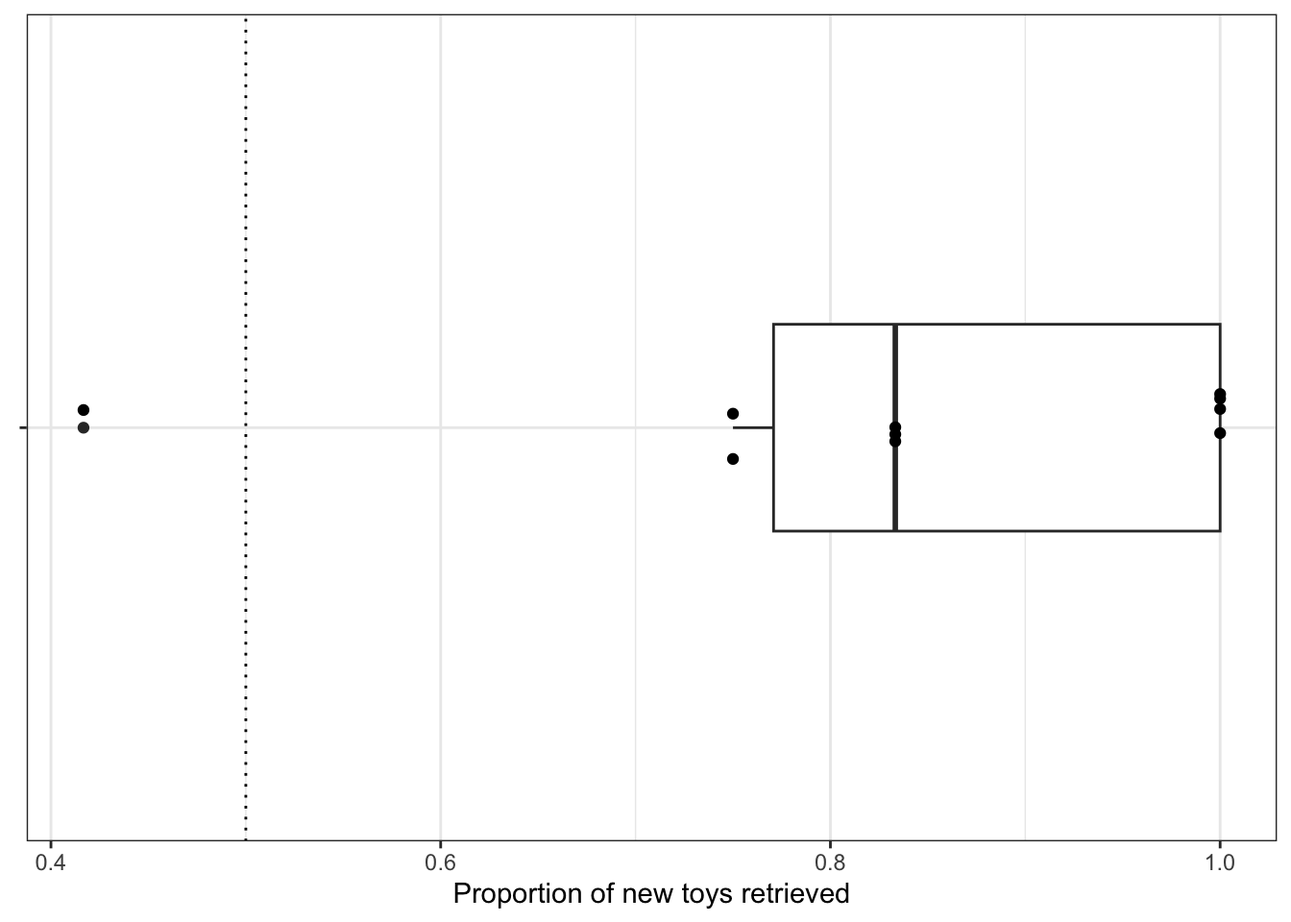
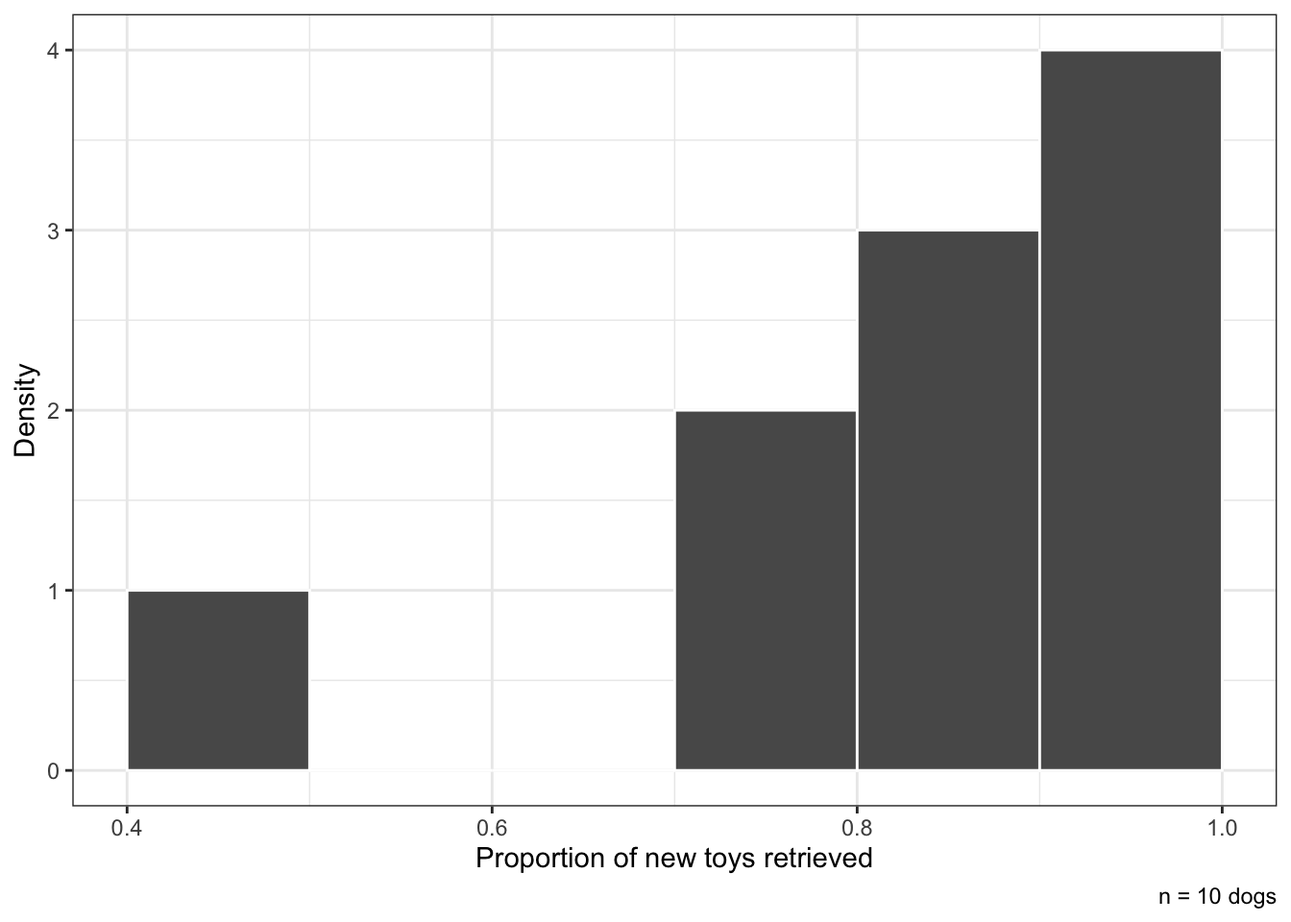
Solutions to 2.1 and 2.2

diff --git a/docs/HW1/HW1.html b/docs/HW1/HW1.html
@@ -235,13 +235,18 @@ pre > code.sourceCode > span > a:first-child::before { text-decoration: underlin
     <h2 id="toc-title">On this page</h2>
    
   <ul>
-  <li><a href="#question-1" id="toc-question-1" class="nav-link active" data-scroll-target="#question-1">Question 1</a>
+  <li><a href="#question-1" id="toc-question-1" class="nav-link active" data-scroll-target="#question-1"><span class="header-section-number">1</span> Question 1</a>
   <ul class="collapse">
-  <li><a href="#part-a" id="toc-part-a" class="nav-link" data-scroll-target="#part-a">Part a</a></li>
-  <li><a href="#part-b" id="toc-part-b" class="nav-link" data-scroll-target="#part-b">Part b</a></li>
+  <li><a href="#part-a" id="toc-part-a" class="nav-link" data-scroll-target="#part-a"><span class="header-section-number">1.1</span> Part a</a></li>
+  <li><a href="#part-b" id="toc-part-b" class="nav-link" data-scroll-target="#part-b"><span class="header-section-number">1.2</span> Part b</a></li>
+  </ul></li>
+  <li><a href="#question-2" id="toc-question-2" class="nav-link" data-scroll-target="#question-2"><span class="header-section-number">2</span> Question 2</a>
+  <ul class="collapse">
+  <li><a href="#part-a-1" id="toc-part-a-1" class="nav-link" data-scroll-target="#part-a-1"><span class="header-section-number">2.1</span> Part a</a></li>
+  <li><a href="#part-b-1" id="toc-part-b-1" class="nav-link" data-scroll-target="#part-b-1"><span class="header-section-number">2.2</span> Part b</a></li>
   </ul></li>
   </ul>
-</nav>
+<div class="quarto-alternate-formats"><h2>Other Formats</h2><ul><li><a href="HW1.pdf"><i class="bi bi-file-pdf"></i>PDF</a></li></ul></div></nav>
     </div>
 <!-- main -->
 <main class="content" id="quarto-document-content">
@@ -271,10 +276,10 @@ pre > code.sourceCode > span > a:first-child::before { text-decoration: underlin
 <p>To learn whether GWL dogs learn object labels by passively overhearing interactions between humans the researchers performed an experiment where 𝑛 = 10 dogs were exposed to a condition where two family members sitting across from each other passing the toy back and forth. The caretaker addressed the second person using simple sentence frames and non-verbal cues, neither directly to the dog.</p>
 <p>This exposure occurred daily for eleven days with two new toys. - Toy A: Days 1-3; 9 - Toy B: Days 5-7; 10 - Rest: Day 4, 8, 11</p>
 <p>On the twelfth day, out of the caretaker’s sight, the two new toys were placed alongside nine familiar toys. The caretaker requested the toys verbally twenty-four times – twelve times for the two new toys, and twelve times for the nine familiar toys.</p>
-<section id="question-1" class="level1">
-<h1>Question 1</h1>
-<section id="part-a" class="level2">
-<h2 class="anchored" data-anchor-id="part-a">Part a</h2>
+<section id="question-1" class="level1" data-number="1">
+<h1 data-number="1"><span class="header-section-number">1</span> Question 1</h1>
+<section id="part-a" class="level2" data-number="1.1">
+<h2 data-number="1.1" class="anchored" data-anchor-id="part-a"><span class="header-section-number">1.1</span> Part a</h2>
 <p>In the paper, Dror et al.&nbsp;(2026) performed a Wilcoxon signed-rank test to assess whether the dogs were better than chance, which they took as 50%, for returning the new objects when requested. The 𝑛 = 10 dogs had the following results:</p>
 <p>{1.0000, 1.0000, 0.7500, 1.0000, 0.4167, 0.8333, 0.7500, 0.8333, 0.8333, 1.0000}.</p>
 <p>They also considered the paired difference (direct − overhearing):</p>
@@ -284,25 +289,27 @@ pre > code.sourceCode > span > a:first-child::before { text-decoration: underlin
 <p>Evaluate the author’s choice to use the Wilcoxon signed-rank test (not specifying exact or approximate). Also consider a one-sample 𝑡-test and a one-sample 𝑧-test (or exact binomial test). Which choices are reasonable given the data, and which choice would you have made?</p>
 <p><strong>Solution:</strong> AI recommended that if the data met normality assumptions, to then report a one-sample t-Test, however, because there are only n=10 dogs, we cannot enact the central limit theorem (CLT) to make the data behave as normal. So, in a case where the data is bound between 0 and 1 with a limited sample size, the t-Test might not be the most accurate. Moving on with the z-Test, it seems the natural choice because it deals with proportions and relies on bernoulli data. Again, while we could coerce the trails into success(1) and failure(0) for each trial a dog participates in, we have the same subject gathering data for 12 trials. This could skew the data as if one dog were inherently very good, it would be difficult to compare to another who wasn’t as they are not independent trials. That leaves only the Wilcoxon signed-rank test. But the authors’ failure to specify exact vs.&nbsp;approximate matters more than it looks. The exact version of the test requires no ties among the ranked values, and here 7 of the 10 values are tied (three dogs at 1.0000, two at 0.8333, two at 0.7500). However, I still agree with the author’s use of the Wilcoxon signed-rank test as the best option.</p>
 </section>
-<section id="part-b" class="level2">
-<h2 class="anchored" data-anchor-id="part-b">Part b</h2>
+<section id="part-b" class="level2" data-number="1.2">
+<h2 data-number="1.2" class="anchored" data-anchor-id="part-b"><span class="header-section-number">1.2</span> Part b</h2>
 <p>Perform the analyses you decided on above. Provide a full report as if you were submitting your homework to the researchers themselves. This part should be a stand alone analysis that can be read and understood independently.</p>
 <p>Note: If you didn’t select a test in the previous part, you can use a randomization test here.</p>
 <div class="cell">
-<div class="code-copy-outer-scaffold"><div class="sourceCode cell-code" id="cb1"><pre class="sourceCode r code-with-copy"><code class="sourceCode r"><span id="cb1-1"><a href="#cb1-1" aria-hidden="true" tabindex="-1"></a><span class="fu">library</span>(ggplot2)</span>
-<span id="cb1-2"><a href="#cb1-2" aria-hidden="true" tabindex="-1"></a></span>
-<span id="cb1-3"><a href="#cb1-3" aria-hidden="true" tabindex="-1"></a>new.toy.prop <span class="ot">&lt;-</span> <span class="fu">c</span>(<span class="fl">1.0000</span>, <span class="fl">1.0000</span>, <span class="fl">0.7500</span>, <span class="fl">1.0000</span>, <span class="fl">0.4167</span>,</span>
-<span id="cb1-4"><a href="#cb1-4" aria-hidden="true" tabindex="-1"></a>                   <span class="fl">0.8333</span>, <span class="fl">0.7500</span>, <span class="fl">0.8333</span>, <span class="fl">0.8333</span>, <span class="fl">1.0000</span>)</span>
-<span id="cb1-5"><a href="#cb1-5" aria-hidden="true" tabindex="-1"></a></span>
-<span id="cb1-6"><a href="#cb1-6" aria-hidden="true" tabindex="-1"></a>dog.dat <span class="ot">&lt;-</span> <span class="fu">data.frame</span>(<span class="at">dog =</span> <span class="fu">factor</span>(<span class="dv">1</span><span class="sc">:</span><span class="dv">10</span>), <span class="at">prop.correct =</span> new.toy.prop)</span>
-<span id="cb1-7"><a href="#cb1-7" aria-hidden="true" tabindex="-1"></a></span>
-<span id="cb1-8"><a href="#cb1-8" aria-hidden="true" tabindex="-1"></a><span class="fu">ggplot</span>(dog.dat, <span class="fu">aes</span>(<span class="at">x =</span> <span class="st">""</span>, <span class="at">y =</span> prop.correct)) <span class="sc">+</span></span>
-<span id="cb1-9"><a href="#cb1-9" aria-hidden="true" tabindex="-1"></a>  <span class="fu">geom_boxplot</span>(<span class="at">width =</span> <span class="fl">0.3</span>) <span class="sc">+</span></span>
-<span id="cb1-10"><a href="#cb1-10" aria-hidden="true" tabindex="-1"></a>  <span class="fu">geom_jitter</span>(<span class="at">width =</span> <span class="fl">0.05</span>, <span class="at">height =</span> <span class="dv">0</span>) <span class="sc">+</span></span>
-<span id="cb1-11"><a href="#cb1-11" aria-hidden="true" tabindex="-1"></a>  <span class="fu">geom_hline</span>(<span class="at">yintercept =</span> <span class="fl">0.5</span>, <span class="at">linetype =</span> <span class="st">"dotted"</span>) <span class="sc">+</span></span>
-<span id="cb1-12"><a href="#cb1-12" aria-hidden="true" tabindex="-1"></a>  <span class="fu">coord_flip</span>() <span class="sc">+</span></span>
-<span id="cb1-13"><a href="#cb1-13" aria-hidden="true" tabindex="-1"></a>  <span class="fu">labs</span>(<span class="at">x =</span> <span class="cn">NULL</span>, <span class="at">y =</span> <span class="st">"Proportion of new toys retrieved"</span>) <span class="sc">+</span></span>
-<span id="cb1-14"><a href="#cb1-14" aria-hidden="true" tabindex="-1"></a>  <span class="fu">theme_bw</span>()</span></code></pre></div><button title="Copy to Clipboard" class="code-copy-button"><i class="bi"></i></button></div>
+<details class="code-fold">
+<summary>Code</summary>
+<div class="code-copy-outer-scaffold"><div class="sourceCode cell-code" id="cb1"><pre class="sourceCode numberSource r number-lines code-with-copy"><code class="sourceCode r"><span id="cb1-1"><a href="#cb1-1" aria-label="1"></a><span class="fu">library</span>(ggplot2)</span>
+<span id="cb1-2"><a href="#cb1-2" aria-label="2"></a></span>
+<span id="cb1-3"><a href="#cb1-3" aria-label="3"></a>new.toy.prop <span class="ot">&lt;-</span> <span class="fu">c</span>(<span class="fl">1.0000</span>, <span class="fl">1.0000</span>, <span class="fl">0.7500</span>, <span class="fl">1.0000</span>, <span class="fl">0.4167</span>,</span>
+<span id="cb1-4"><a href="#cb1-4" aria-label="4"></a>                   <span class="fl">0.8333</span>, <span class="fl">0.7500</span>, <span class="fl">0.8333</span>, <span class="fl">0.8333</span>, <span class="fl">1.0000</span>)</span>
+<span id="cb1-5"><a href="#cb1-5" aria-label="5"></a></span>
+<span id="cb1-6"><a href="#cb1-6" aria-label="6"></a>dog.dat <span class="ot">&lt;-</span> <span class="fu">data.frame</span>(<span class="at">prop.correct =</span> new.toy.prop)</span>
+<span id="cb1-7"><a href="#cb1-7" aria-label="7"></a></span>
+<span id="cb1-8"><a href="#cb1-8" aria-label="8"></a><span class="fu">ggplot</span>(dog.dat, <span class="fu">aes</span>(<span class="at">x =</span> prop.correct)) <span class="sc">+</span></span>
+<span id="cb1-9"><a href="#cb1-9" aria-label="9"></a>  <span class="fu">geom_histogram</span>(<span class="fu">aes</span>(<span class="at">y =</span> <span class="fu">after_stat</span>(density)),</span>
+<span id="cb1-10"><a href="#cb1-10" aria-label="10"></a>                  <span class="at">binwidth =</span> <span class="fl">0.1</span>, <span class="at">boundary =</span> <span class="dv">0</span>, <span class="at">color =</span> <span class="st">"white"</span>) <span class="sc">+</span></span>
+<span id="cb1-11"><a href="#cb1-11" aria-label="11"></a>  <span class="fu">labs</span>(<span class="at">x =</span> <span class="st">"Proportion of new toys retrieved"</span>, <span class="at">y =</span> <span class="st">"Density"</span>,</span>
+<span id="cb1-12"><a href="#cb1-12" aria-label="12"></a>       <span class="at">caption =</span> <span class="st">"n = 10 dogs"</span>) <span class="sc">+</span></span>
+<span id="cb1-13"><a href="#cb1-13" aria-label="13"></a>  <span class="fu">theme_bw</span>()</span></code></pre></div><button title="Copy to Clipboard" class="code-copy-button"><i class="bi"></i></button></div>
+</details>
 <div class="cell-output-display">
 <div>
 <figure class="figure">
@@ -312,17 +319,21 @@ pre > code.sourceCode > span > a:first-child::before { text-decoration: underlin
 </div>
 </div>
 <div class="cell">
-<div class="code-copy-outer-scaffold"><div class="sourceCode cell-code" id="cb2"><pre class="sourceCode r code-with-copy"><code class="sourceCode r"><span id="cb2-1"><a href="#cb2-1" aria-hidden="true" tabindex="-1"></a>new.toy.prop <span class="ot">&lt;-</span> <span class="fu">c</span>(<span class="fl">1.0000</span>, <span class="fl">1.0000</span>, <span class="fl">0.7500</span>, <span class="fl">1.0000</span>, <span class="fl">0.4167</span>,</span>
-<span id="cb2-2"><a href="#cb2-2" aria-hidden="true" tabindex="-1"></a>                   <span class="fl">0.8333</span>, <span class="fl">0.7500</span>, <span class="fl">0.8333</span>, <span class="fl">0.8333</span>, <span class="fl">1.0000</span>)</span>
-<span id="cb2-3"><a href="#cb2-3" aria-hidden="true" tabindex="-1"></a>test.result <span class="ot">&lt;-</span> <span class="fu">wilcox.test</span>(<span class="at">x =</span> new.toy.prop, <span class="co"># data</span></span>
-<span id="cb2-4"><a href="#cb2-4" aria-hidden="true" tabindex="-1"></a><span class="at">mu =</span> <span class="fl">0.5</span>, <span class="co"># M0 = .5</span></span>
-<span id="cb2-5"><a href="#cb2-5" aria-hidden="true" tabindex="-1"></a><span class="at">alternative =</span> <span class="st">"two.sided"</span>, <span class="co"># Ha: M != M0</span></span>
-<span id="cb2-6"><a href="#cb2-6" aria-hidden="true" tabindex="-1"></a><span class="at">conf.level =</span> <span class="fl">0.95</span>) <span class="co"># alpha = 0.05</span></span></code></pre></div><button title="Copy to Clipboard" class="code-copy-button"><i class="bi"></i></button></div>
+<details class="code-fold">
+<summary>Code</summary>
+<div class="code-copy-outer-scaffold"><div class="sourceCode cell-code" id="cb2"><pre class="sourceCode numberSource r number-lines code-with-copy"><code class="sourceCode r"><span id="cb2-1"><a href="#cb2-1" aria-label="1"></a>test.result <span class="ot">&lt;-</span> <span class="fu">wilcox.test</span>(<span class="at">x =</span> new.toy.prop, <span class="co"># data</span></span>
+<span id="cb2-2"><a href="#cb2-2" aria-label="2"></a><span class="at">mu =</span> <span class="fl">0.5</span>, <span class="co"># M0 = .5</span></span>
+<span id="cb2-3"><a href="#cb2-3" aria-label="3"></a><span class="at">alternative =</span> <span class="st">"two.sided"</span>, <span class="co"># Ha: M != M0</span></span>
+<span id="cb2-4"><a href="#cb2-4" aria-label="4"></a><span class="at">conf.level =</span> <span class="fl">0.95</span>) <span class="co"># alpha = 0.05</span></span></code></pre></div><button title="Copy to Clipboard" class="code-copy-button"><i class="bi"></i></button></div>
+</details>
 <div class="cell-output cell-output-stderr">
 <pre><code>Warning in wilcox.test.default(x = new.toy.prop, mu = 0.5, alternative =
 "two.sided", : cannot compute exact p-value with ties</code></pre>
 </div>
-<div class="code-copy-outer-scaffold"><div class="sourceCode cell-code" id="cb4"><pre class="sourceCode r code-with-copy"><code class="sourceCode r"><span id="cb4-1"><a href="#cb4-1" aria-hidden="true" tabindex="-1"></a>test.result</span></code></pre></div><button title="Copy to Clipboard" class="code-copy-button"><i class="bi"></i></button></div>
+<details class="code-fold">
+<summary>Code</summary>
+<div class="code-copy-outer-scaffold"><div class="sourceCode cell-code" id="cb4"><pre class="sourceCode numberSource r number-lines code-with-copy"><code class="sourceCode r"><span id="cb4-1"><a href="#cb4-1" aria-label="1"></a>test.result</span></code></pre></div><button title="Copy to Clipboard" class="code-copy-button"><i class="bi"></i></button></div>
+</details>
 <div class="cell-output cell-output-stdout">
 <pre><code>
     Wilcoxon signed rank test with continuity correction
@@ -334,7 +345,10 @@ alternative hypothesis: true location is not equal to 0.5</code></pre>
 </div>
 <p><strong>Question:</strong> Did the dogs retrieve newly-labeled toys at a rate better than chance (50%) after only overhearing them named, across n = 10 dogs?</p>
 <div class="cell">
-<div class="code-copy-outer-scaffold"><div class="sourceCode cell-code" id="cb6"><pre class="sourceCode r code-with-copy"><code class="sourceCode r"><span id="cb6-1"><a href="#cb6-1" aria-hidden="true" tabindex="-1"></a><span class="fu">library</span>(dplyr)</span></code></pre></div><button title="Copy to Clipboard" class="code-copy-button"><i class="bi"></i></button></div>
+<details class="code-fold">
+<summary>Code</summary>
+<div class="code-copy-outer-scaffold"><div class="sourceCode cell-code" id="cb6"><pre class="sourceCode numberSource r number-lines code-with-copy"><code class="sourceCode r"><span id="cb6-1"><a href="#cb6-1" aria-label="1"></a><span class="fu">library</span>(dplyr)</span></code></pre></div><button title="Copy to Clipboard" class="code-copy-button"><i class="bi"></i></button></div>
+</details>
 <div class="cell-output cell-output-stderr">
 <pre><code>
 Attaching package: 'dplyr'</code></pre>
@@ -349,7 +363,10 @@ Attaching package: 'dplyr'</code></pre>
 
     intersect, setdiff, setequal, union</code></pre>
 </div>
-<div class="code-copy-outer-scaffold"><div class="sourceCode cell-code" id="cb10"><pre class="sourceCode r code-with-copy"><code class="sourceCode r"><span id="cb10-1"><a href="#cb10-1" aria-hidden="true" tabindex="-1"></a><span class="fu">library</span>(e1071)</span></code></pre></div><button title="Copy to Clipboard" class="code-copy-button"><i class="bi"></i></button></div>
+<details class="code-fold">
+<summary>Code</summary>
+<div class="code-copy-outer-scaffold"><div class="sourceCode cell-code" id="cb10"><pre class="sourceCode numberSource r number-lines code-with-copy"><code class="sourceCode r"><span id="cb10-1"><a href="#cb10-1" aria-label="1"></a><span class="fu">library</span>(e1071)</span></code></pre></div><button title="Copy to Clipboard" class="code-copy-button"><i class="bi"></i></button></div>
+</details>
 <div class="cell-output cell-output-stderr">
 <pre><code>
 Attaching package: 'e1071'</code></pre>
@@ -359,23 +376,26 @@ Attaching package: 'e1071'</code></pre>
 
     element</code></pre>
 </div>
-<div class="code-copy-outer-scaffold"><div class="sourceCode cell-code" id="cb13"><pre class="sourceCode r code-with-copy"><code class="sourceCode r"><span id="cb13-1"><a href="#cb13-1" aria-hidden="true" tabindex="-1"></a><span class="fu">library</span>(knitr)</span>
-<span id="cb13-2"><a href="#cb13-2" aria-hidden="true" tabindex="-1"></a></span>
-<span id="cb13-3"><a href="#cb13-3" aria-hidden="true" tabindex="-1"></a>new.toy.prop <span class="ot">&lt;-</span> <span class="fu">c</span>(<span class="fl">1.0000</span>, <span class="fl">1.0000</span>, <span class="fl">0.7500</span>, <span class="fl">1.0000</span>, <span class="fl">0.4167</span>,</span>
-<span id="cb13-4"><a href="#cb13-4" aria-hidden="true" tabindex="-1"></a>                   <span class="fl">0.8333</span>, <span class="fl">0.7500</span>, <span class="fl">0.8333</span>, <span class="fl">0.8333</span>, <span class="fl">1.0000</span>)</span>
-<span id="cb13-5"><a href="#cb13-5" aria-hidden="true" tabindex="-1"></a></span>
-<span id="cb13-6"><a href="#cb13-6" aria-hidden="true" tabindex="-1"></a>summary.tab <span class="ot">&lt;-</span> <span class="fu">tibble</span>(<span class="at">prop =</span> new.toy.prop) <span class="sc">|&gt;</span></span>
-<span id="cb13-7"><a href="#cb13-7" aria-hidden="true" tabindex="-1"></a>  <span class="fu">summarise</span>(</span>
-<span id="cb13-8"><a href="#cb13-8" aria-hidden="true" tabindex="-1"></a>    <span class="at">n                =</span> <span class="fu">n</span>(),</span>
-<span id="cb13-9"><a href="#cb13-9" aria-hidden="true" tabindex="-1"></a>    <span class="at">Mean             =</span> <span class="fu">mean</span>(prop),</span>
-<span id="cb13-10"><a href="#cb13-10" aria-hidden="true" tabindex="-1"></a>    <span class="at">Median           =</span> <span class="fu">median</span>(prop),</span>
-<span id="cb13-11"><a href="#cb13-11" aria-hidden="true" tabindex="-1"></a>    <span class="at">SD               =</span> <span class="fu">sd</span>(prop),</span>
-<span id="cb13-12"><a href="#cb13-12" aria-hidden="true" tabindex="-1"></a>    <span class="at">IQR              =</span> <span class="fu">IQR</span>(prop),</span>
-<span id="cb13-13"><a href="#cb13-13" aria-hidden="true" tabindex="-1"></a>    <span class="at">Skewness         =</span> <span class="fu">skewness</span>(prop),</span>
-<span id="cb13-14"><a href="#cb13-14" aria-hidden="true" tabindex="-1"></a>    <span class="st">`</span><span class="at">Excess Kurtosis</span><span class="st">`</span> <span class="ot">=</span> <span class="fu">kurtosis</span>(prop)</span>
-<span id="cb13-15"><a href="#cb13-15" aria-hidden="true" tabindex="-1"></a>  )</span>
-<span id="cb13-16"><a href="#cb13-16" aria-hidden="true" tabindex="-1"></a></span>
-<span id="cb13-17"><a href="#cb13-17" aria-hidden="true" tabindex="-1"></a><span class="fu">kable</span>(summary.tab, <span class="at">digits =</span> <span class="dv">2</span>, <span class="at">caption =</span> <span class="st">"Proportion of New Toys Retrieved (n = 10 dogs)"</span>)</span></code></pre></div><button title="Copy to Clipboard" class="code-copy-button"><i class="bi"></i></button></div>
+<details class="code-fold">
+<summary>Code</summary>
+<div class="code-copy-outer-scaffold"><div class="sourceCode cell-code" id="cb13"><pre class="sourceCode numberSource r number-lines code-with-copy"><code class="sourceCode r"><span id="cb13-1"><a href="#cb13-1" aria-label="1"></a><span class="fu">library</span>(knitr)</span>
+<span id="cb13-2"><a href="#cb13-2" aria-label="2"></a></span>
+<span id="cb13-3"><a href="#cb13-3" aria-label="3"></a>new.toy.prop <span class="ot">&lt;-</span> <span class="fu">c</span>(<span class="fl">1.0000</span>, <span class="fl">1.0000</span>, <span class="fl">0.7500</span>, <span class="fl">1.0000</span>, <span class="fl">0.4167</span>,</span>
+<span id="cb13-4"><a href="#cb13-4" aria-label="4"></a>                   <span class="fl">0.8333</span>, <span class="fl">0.7500</span>, <span class="fl">0.8333</span>, <span class="fl">0.8333</span>, <span class="fl">1.0000</span>)</span>
+<span id="cb13-5"><a href="#cb13-5" aria-label="5"></a></span>
+<span id="cb13-6"><a href="#cb13-6" aria-label="6"></a>summary.tab <span class="ot">&lt;-</span> <span class="fu">tibble</span>(<span class="at">prop =</span> new.toy.prop) <span class="sc">|&gt;</span></span>
+<span id="cb13-7"><a href="#cb13-7" aria-label="7"></a>  <span class="fu">summarise</span>(</span>
+<span id="cb13-8"><a href="#cb13-8" aria-label="8"></a>    <span class="at">n                =</span> <span class="fu">n</span>(),</span>
+<span id="cb13-9"><a href="#cb13-9" aria-label="9"></a>    <span class="at">Mean             =</span> <span class="fu">mean</span>(prop),</span>
+<span id="cb13-10"><a href="#cb13-10" aria-label="10"></a>    <span class="at">Median           =</span> <span class="fu">median</span>(prop),</span>
+<span id="cb13-11"><a href="#cb13-11" aria-label="11"></a>    <span class="at">SD               =</span> <span class="fu">sd</span>(prop),</span>
+<span id="cb13-12"><a href="#cb13-12" aria-label="12"></a>    <span class="at">IQR              =</span> <span class="fu">IQR</span>(prop),</span>
+<span id="cb13-13"><a href="#cb13-13" aria-label="13"></a>    <span class="at">Skewness         =</span> <span class="fu">skewness</span>(prop),</span>
+<span id="cb13-14"><a href="#cb13-14" aria-label="14"></a>    <span class="st">`</span><span class="at">Excess Kurtosis</span><span class="st">`</span> <span class="ot">=</span> <span class="fu">kurtosis</span>(prop)</span>
+<span id="cb13-15"><a href="#cb13-15" aria-label="15"></a>  )</span>
+<span id="cb13-16"><a href="#cb13-16" aria-label="16"></a></span>
+<span id="cb13-17"><a href="#cb13-17" aria-label="17"></a><span class="fu">kable</span>(summary.tab, <span class="at">digits =</span> <span class="dv">2</span>, <span class="at">caption =</span> <span class="st">"Proportion of New Toys Retrieved (n = 10 dogs)"</span>)</span></code></pre></div><button title="Copy to Clipboard" class="code-copy-button"><i class="bi"></i></button></div>
+</details>
 <div class="cell-output-display">
 <table class="caption-top table table-sm table-striped small">
 <caption>Proportion of New Toys Retrieved (n = 10 dogs)</caption>
@@ -404,8 +424,32 @@ Attaching package: 'e1071'</code></pre>
 </table>
 </div>
 </div>
-<p>We used a Wilcoxon signed-rank test (H₀: median proportion = 0.5) as the primary test. Because 7 of the 10 values are tied (three dogs at 1.000, two at 0.833, two at 0.750), an exact p-value isn’t computable.</p>
+<p>We used a Wilcoxon signed-rank test (Null = 0.5) as the primary test. Because 7 of the 10 values are tied (three dogs at 1.000, two at 0.833, two at 0.750), an exact p-value isn’t computable.</p>
 <p><strong>Conclusion:</strong> The dogs retrieved newly-labeled toys significantly more often than the 50% chance level after passively overhearing them named (Wilcoxon V = 54, p = .0074; sign test p = .0215, 9/10 dogs above chance), consistent with the researchers’ claim of passive label learning in this sample. Given n = 10, we’d caution against over-interpreting the exact p-values — the ceiling effect (4/10 dogs at a perfect score) suggests the task may not have had enough range to fully capture variation in performance, and a slightly harder retrieval task in a larger sample would strengthen the estimate.</p>
+</section>
+</section>
+<section id="question-2" class="level1" data-number="2">
+<h1 data-number="2"><span class="header-section-number">2</span> Question 2</h1>
+<p>The researchers evaluated two new-toy trials per dog across 𝑛 = 10 dogs In the overheard condition, the dogs retrieved all the new toys correctly on the first try. That is, the proportion of times the dogs retrieved the new toys they had only learned through overhearing was 1.0.</p>
+<section id="part-a-1" class="level2" data-number="2.1">
+<h2 data-number="2.1" class="anchored" data-anchor-id="part-a-1"><span class="header-section-number">2.1</span> Part a</h2>
+<p>The researchers suppose that the chance a dog would select the new toy by chance is 50%, noting the novelty of the new toy. The authors use the binomial distribution here. Consider the conditions of the binomial and note any potential issues.</p>
+<p><strong>Solution</strong> One condition of the binomial distribution is an outcome that is either a success of failure. This is fine as the dog either retrieves the toy or not. Another condition of the binomial is a constant p (assumed 0.5). This does not actually hold but given their assumption this is okay. One final condition of the Binomial distribution is independence. Because a single dog will do the trial multiple times and the data is collected, there is not independence between these trials and if one dog is inherently good it may skew the data.</p>
+</section>
+<section id="part-b-1" class="level2" data-number="2.2">
+<h2 data-number="2.2" class="anchored" data-anchor-id="part-b-1"><span class="header-section-number">2.2</span> Part b</h2>
+<p>Using the same assumption – that a dog would select the new toy by chance is 50% – use the binomial model to evaluate the probability that all 𝑛 = 10 dogs would get both trials correct.</p>
+<div class="cell">
+<details class="code-fold">
+<summary>Code</summary>
+<div class="code-copy-outer-scaffold"><div class="sourceCode cell-code" id="cb14"><pre class="sourceCode numberSource r number-lines code-with-copy"><code class="sourceCode r"><span id="cb14-1"><a href="#cb14-1" aria-label="1"></a>aprob <span class="ot">=</span> <span class="fu">dbinom</span>(<span class="dv">10</span>, <span class="at">size =</span> <span class="dv">10</span>, <span class="at">prob =</span> <span class="fl">0.25</span>)</span>
+<span id="cb14-2"><a href="#cb14-2" aria-label="2"></a>aprob</span></code></pre></div><button title="Copy to Clipboard" class="code-copy-button"><i class="bi"></i></button></div>
+</details>
+<div class="cell-output cell-output-stdout">
+<pre><code>[1] 9.536743e-07</code></pre>
+</div>
+</div>
+<p><strong>Solution:</strong> So under that assumed model, the probability of getting all 10 dogs correct on both trials is about 1 in ten million.</p>
 
 
 </section>
